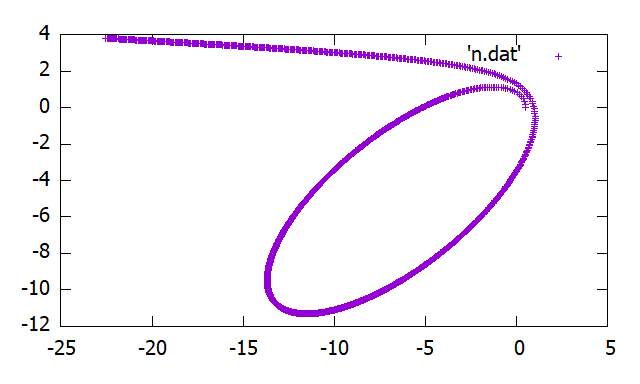
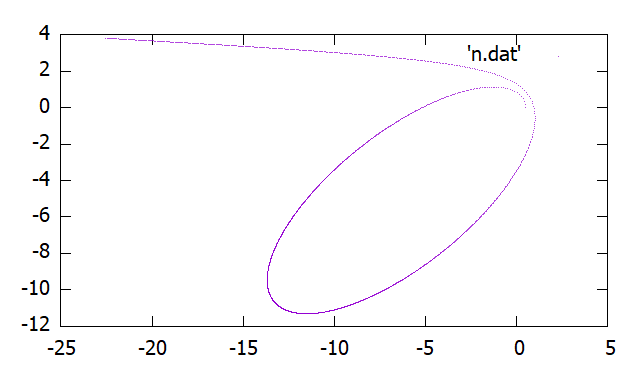
Change gnuplot pointtype into dot

diff --git a/cpp/numeric_calculation/n.cpp b/cpp/numeric_calculation/n.cpp
@@ -24,7 +24,7 @@ int main() {
 
 //    gnuplot で
 //    ```set size ratio -1
-//       plot 'n.dat'```
+//       plot 'n.dat' with points pointtype 0```
 //    でプロット
     return 0;
 }
